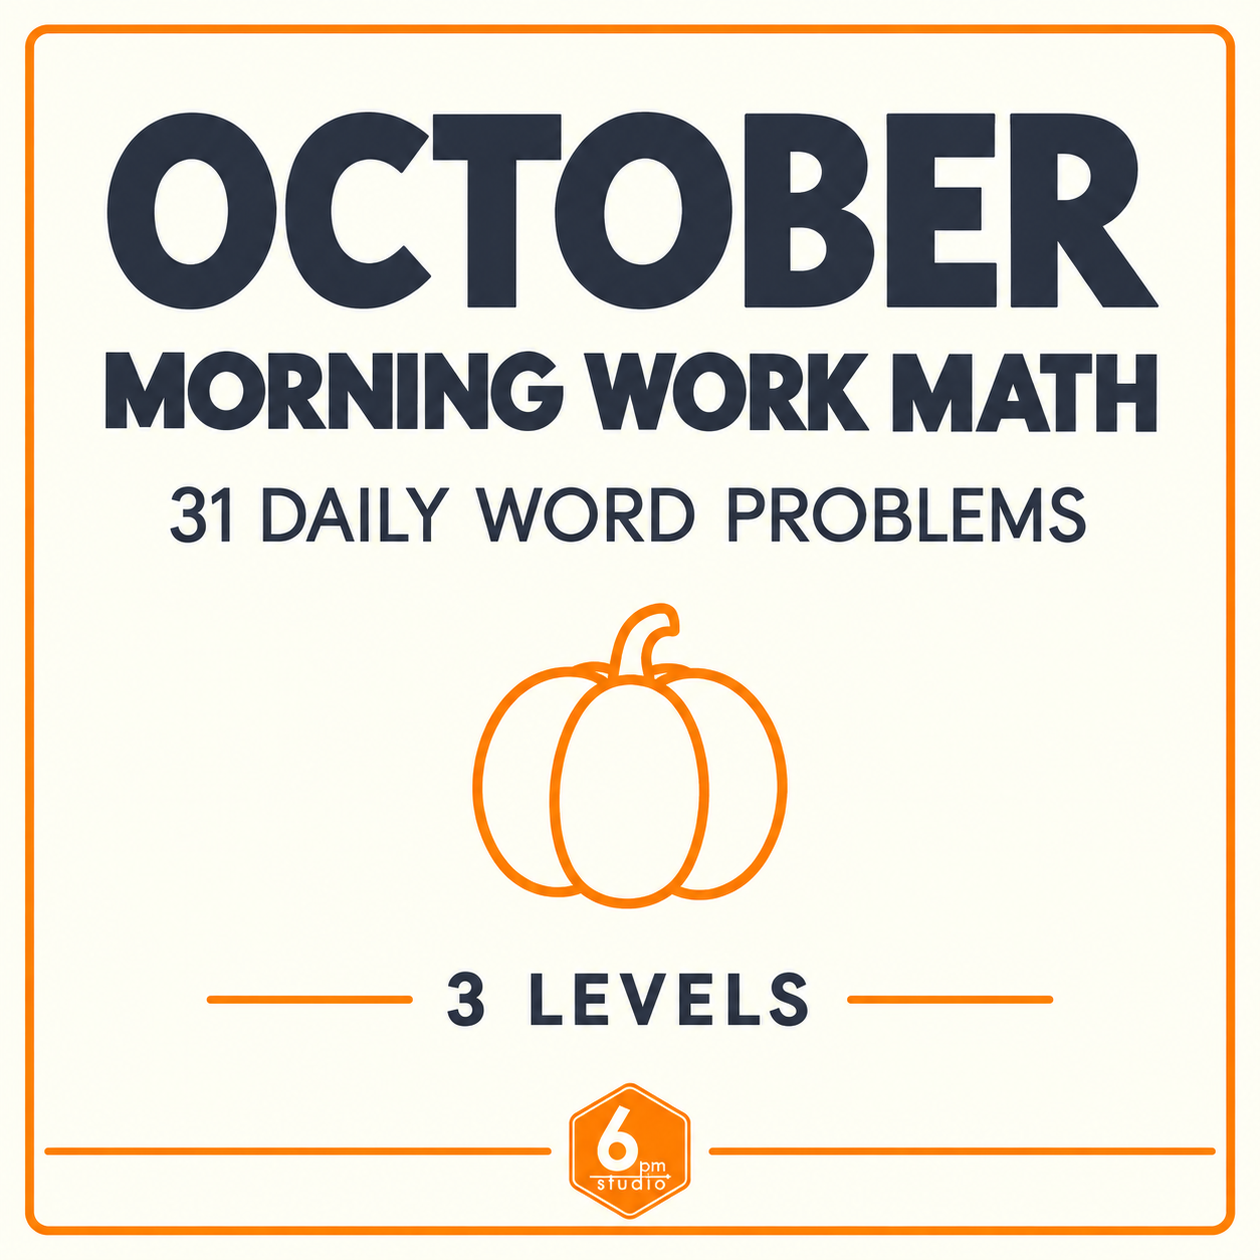
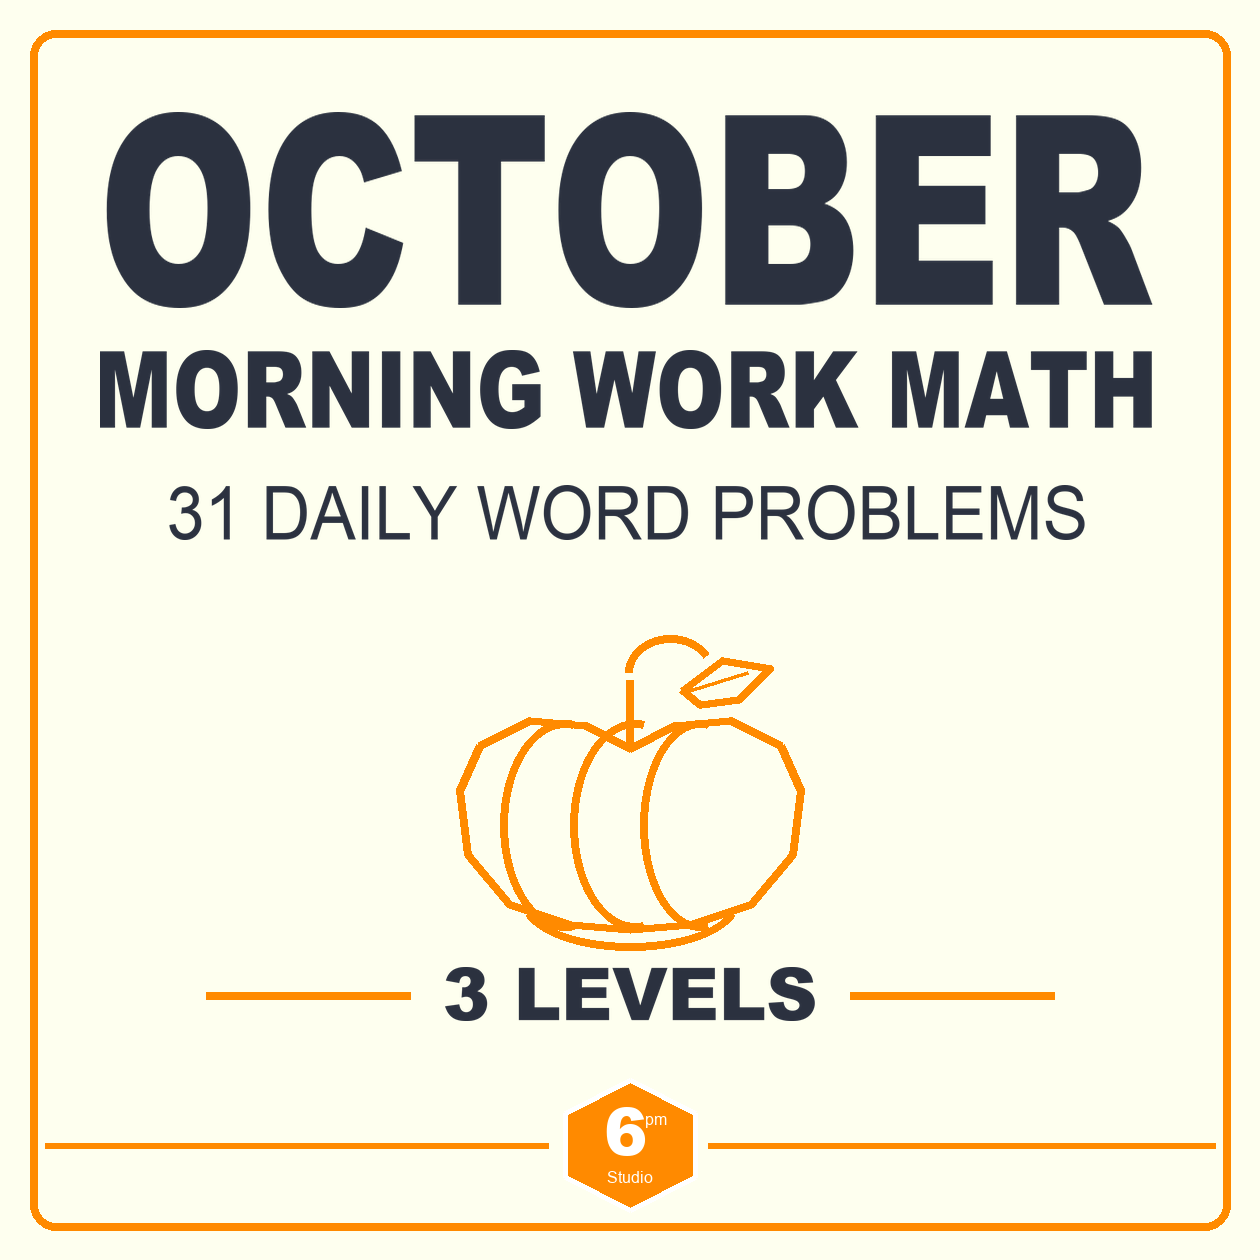
Clarify pumpkin doodle in thumbnail cover

diff --git a/scripts/generate_monthly_thumbnails.py b/scripts/generate_monthly_thumbnails.py
@@ -85,17 +85,23 @@ def pumpkin_doodle(canvas):
     """
     draw = ImageDraw.Draw(canvas)
     stroke = 8
-    body = [(430, 790), (455, 735), (515, 700), (585, 705),
-            (630, 735), (675, 705), (745, 700), (805, 735),
-            (830, 790), (820, 875), (775, 930), (700, 955),
-            (630, 960), (560, 955), (485, 930), (440, 875)]
+    body = [(460, 790), (480, 745), (530, 720), (585, 725),
+            (630, 748), (675, 725), (730, 720), (780, 745),
+            (800, 790), (792, 855), (750, 905), (690, 925),
+            (630, 930), (570, 925), (510, 905), (468, 855)]
     draw.line(body + [body[0]], fill=ORANGE, width=stroke, joint="curve")
-    draw.arc((480, 700, 630, 960), 82, 278, fill=ORANGE, width=stroke)
-    draw.arc((560, 700, 700, 960), 82, 278, fill=ORANGE, width=stroke)
-    draw.arc((640, 700, 800, 960), 82, 278, fill=ORANGE, width=stroke)
-    draw.line((630, 720, 630, 655), fill=ORANGE, width=stroke)
-    draw.arc((625, 610, 725, 690), 180, 330, fill=ORANGE, width=stroke)
-    draw.arc((680, 625, 775, 700), 195, 300, fill=ORANGE, width=stroke)
+    draw.arc((500, 720, 630, 930), 82, 278, fill=ORANGE, width=stroke)
+    draw.arc((570, 720, 700, 930), 82, 278, fill=ORANGE, width=stroke)
+    draw.arc((640, 720, 760, 930), 82, 278, fill=ORANGE, width=stroke)
+    draw.line((630, 748, 630, 680), fill=ORANGE, width=stroke)
+    draw.arc((625, 635, 715, 710), 180, 330, fill=ORANGE, width=stroke)
+    # Add a small leaf and a flatter base so the outline reads as a pumpkin,
+    # not three disconnected ovals, while keeping the single orange doodle
+    # language of the canonical cover.
+    leaf = [(682, 690), (722, 660), (770, 668), (738, 700), (700, 705), (682, 690)]
+    draw.line(leaf, fill=ORANGE, width=stroke, joint="curve")
+    draw.line((690, 690, 748, 672), fill=ORANGE, width=stroke // 2)
+    draw.arc((520, 850, 740, 950), 18, 162, fill=ORANGE, width=stroke)
 
 
 def centered(draw, text, y, size, max_width=1120, fill=NAVY, bold=True):
@@ -183,12 +189,6 @@ def logo(canvas, page):
 
 
 def compose_cover(month, out, source_page):
-    canonical = Path("references /thumbnail-assets/thumbnail-1-reference.png")
-    if month.lower() == "october" and canonical.exists():
-        # October is the canonical parity fixture. Future months reuse the
-        # same compositor geometry while replacing only month-specific art.
-        Image.open(canonical).convert("RGB").resize((SIZE, SIZE), Image.Resampling.LANCZOS).save(out, "PNG", optimize=True)
-        return
     canvas = base_canvas()
     draw = ImageDraw.Draw(canvas)
     # Fixed geometry mirrors the supplied canonical Thumbnail 1 reference.
@@ -317,7 +317,7 @@ def main():
         "pdf": manifest["pdf"]["path"],
         "pdf_sha256": actual_pdf_sha256,
         "copyConcepts": {
-            "cover": {"headline": "October", "productTitle": "MORNING WORK MATH", "supportingText": ["31 DAILY WORD PROBLEMS"], "levelsBlock": "3 LEVELS with orange side lines", "doodle": "orange line-art pumpkin"},
+            "cover": {"headline": "October", "productTitle": "MORNING WORK MATH", "supportingText": ["31 DAILY WORD PROBLEMS"], "levelsBlock": "3 LEVELS with orange side lines", "doodle": "orange line-art pumpkin", "doodlePrompt": "recognizable pumpkin silhouette with five ribbed lobes, curved stem, outlined leaf, and flattened base; orange outline only; no fill or shading"},
             "whats_included": {"headline": "WHAT'S INCLUDED", "sourceLayout": "story, level 1, level 2 / level 3, answer key", "headlineEmphasis": "three orange rays on each side"},
             "different_math": {"headline": ["ONE STORY", "DIFFERENT MATH"], "sourceLayout": "level 1, level 2, level 3 in one row", "headlineSideLines": "one orange horizontal line on each side", "labelStyle": "large navy labels"},
             "daily_practice": {"headline": ["READY FOR", "DAILY PRACTICE"], "useCases": ["MORNING WORK", "BELL RINGERS", "HOMESCHOOL"], "headlineEmphasis": "three orange rays on each side", "useCaseSeparators": "vertical orange lines"},
